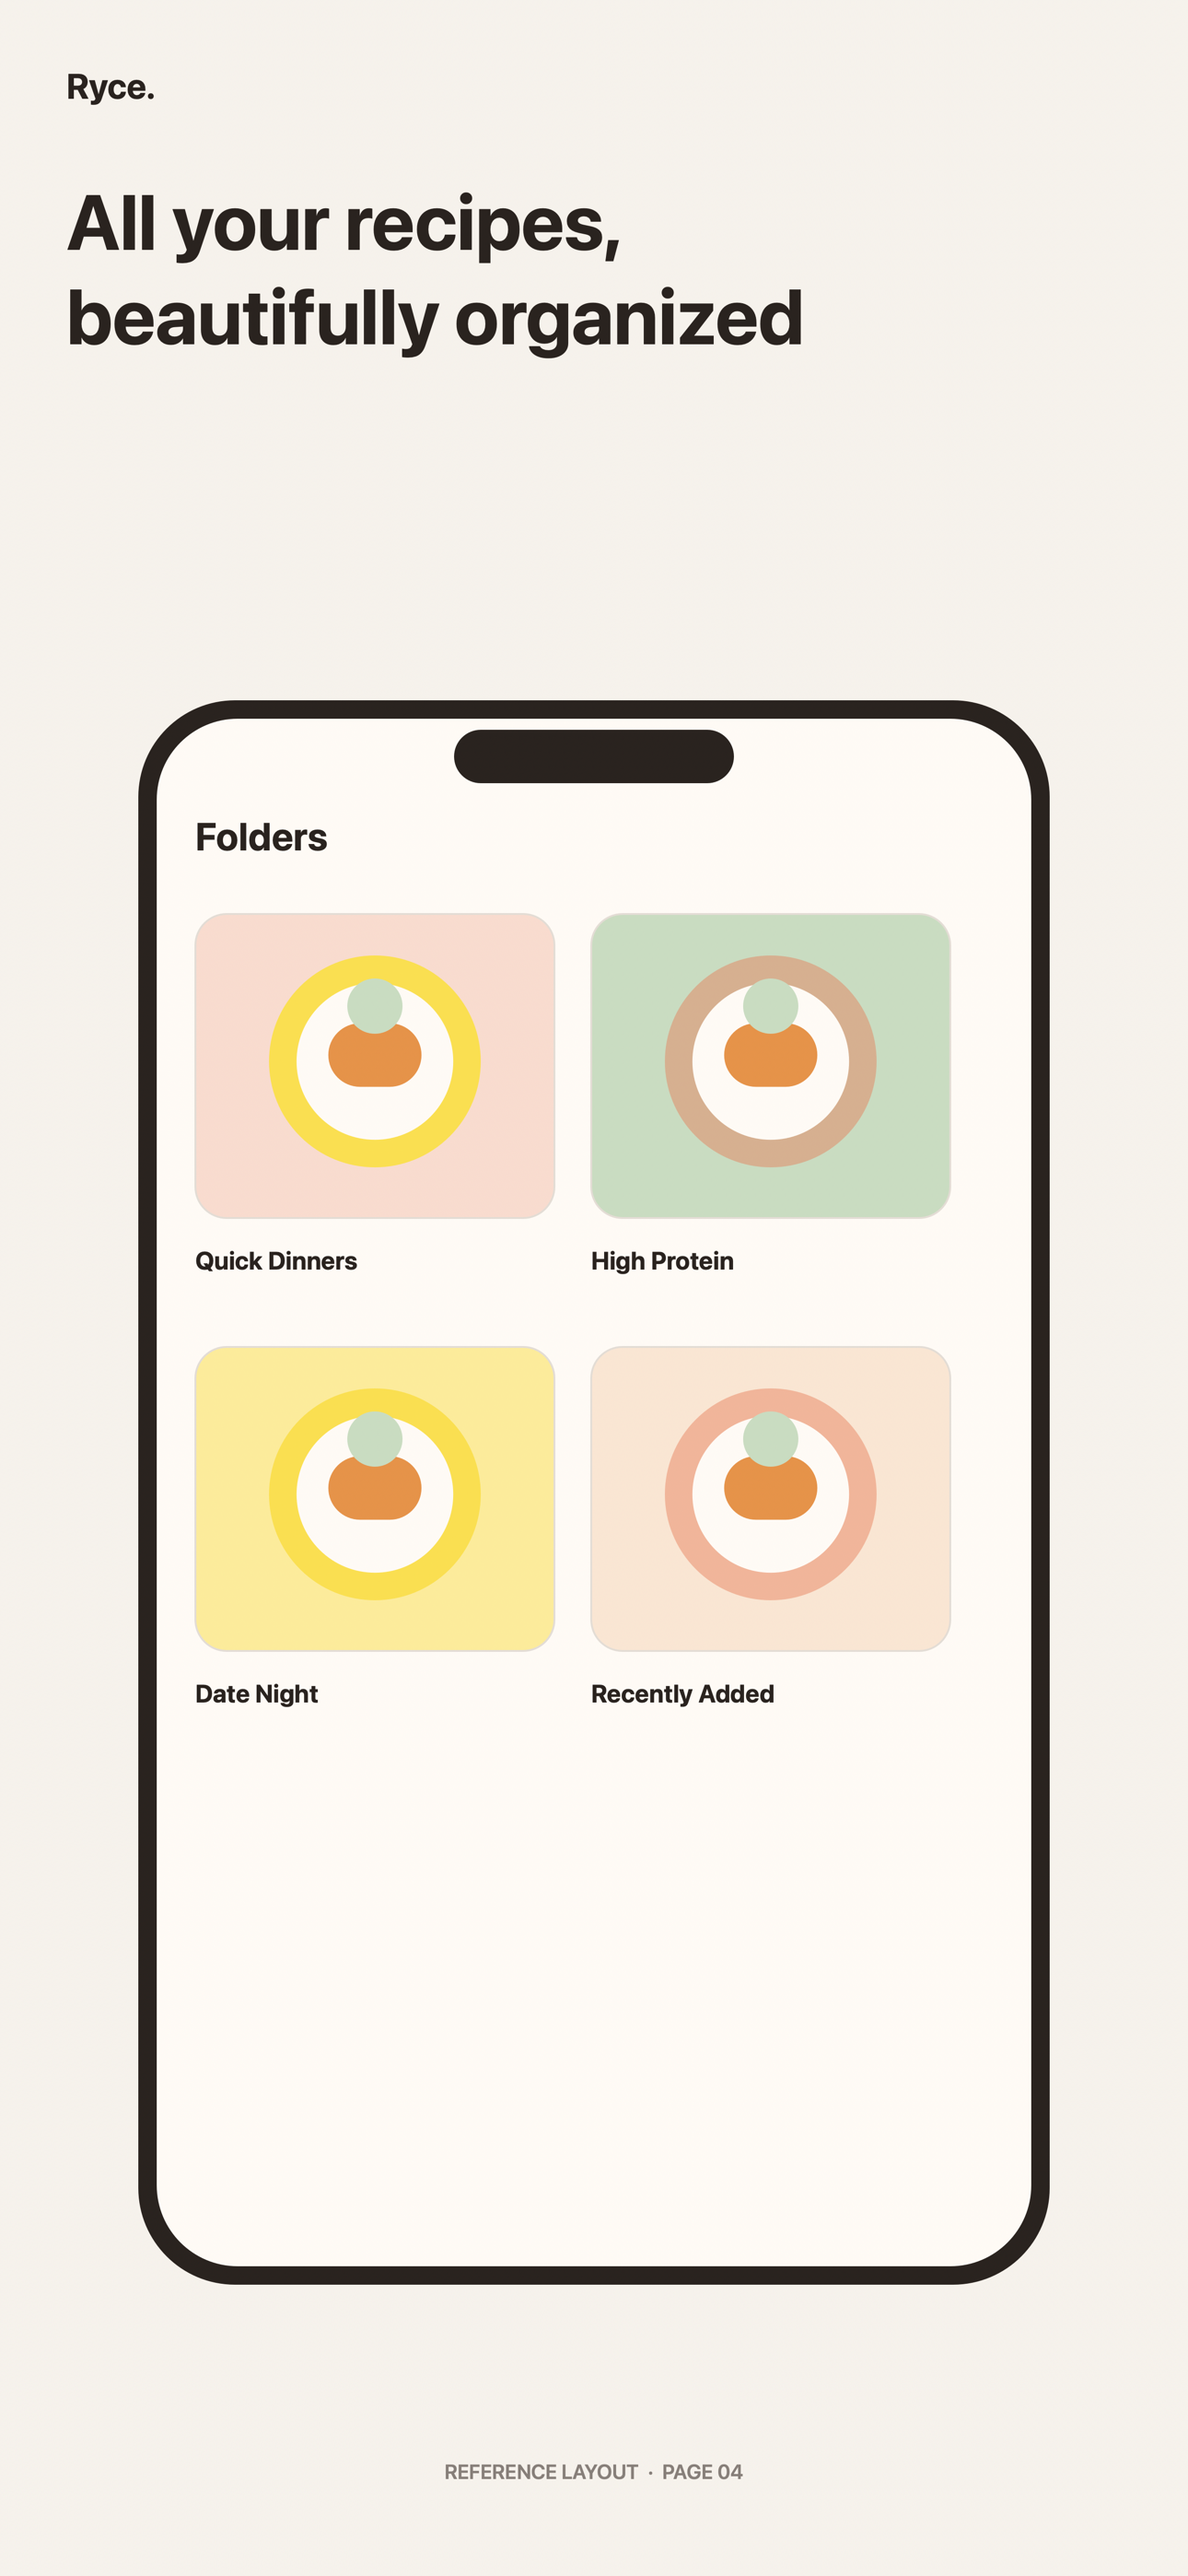
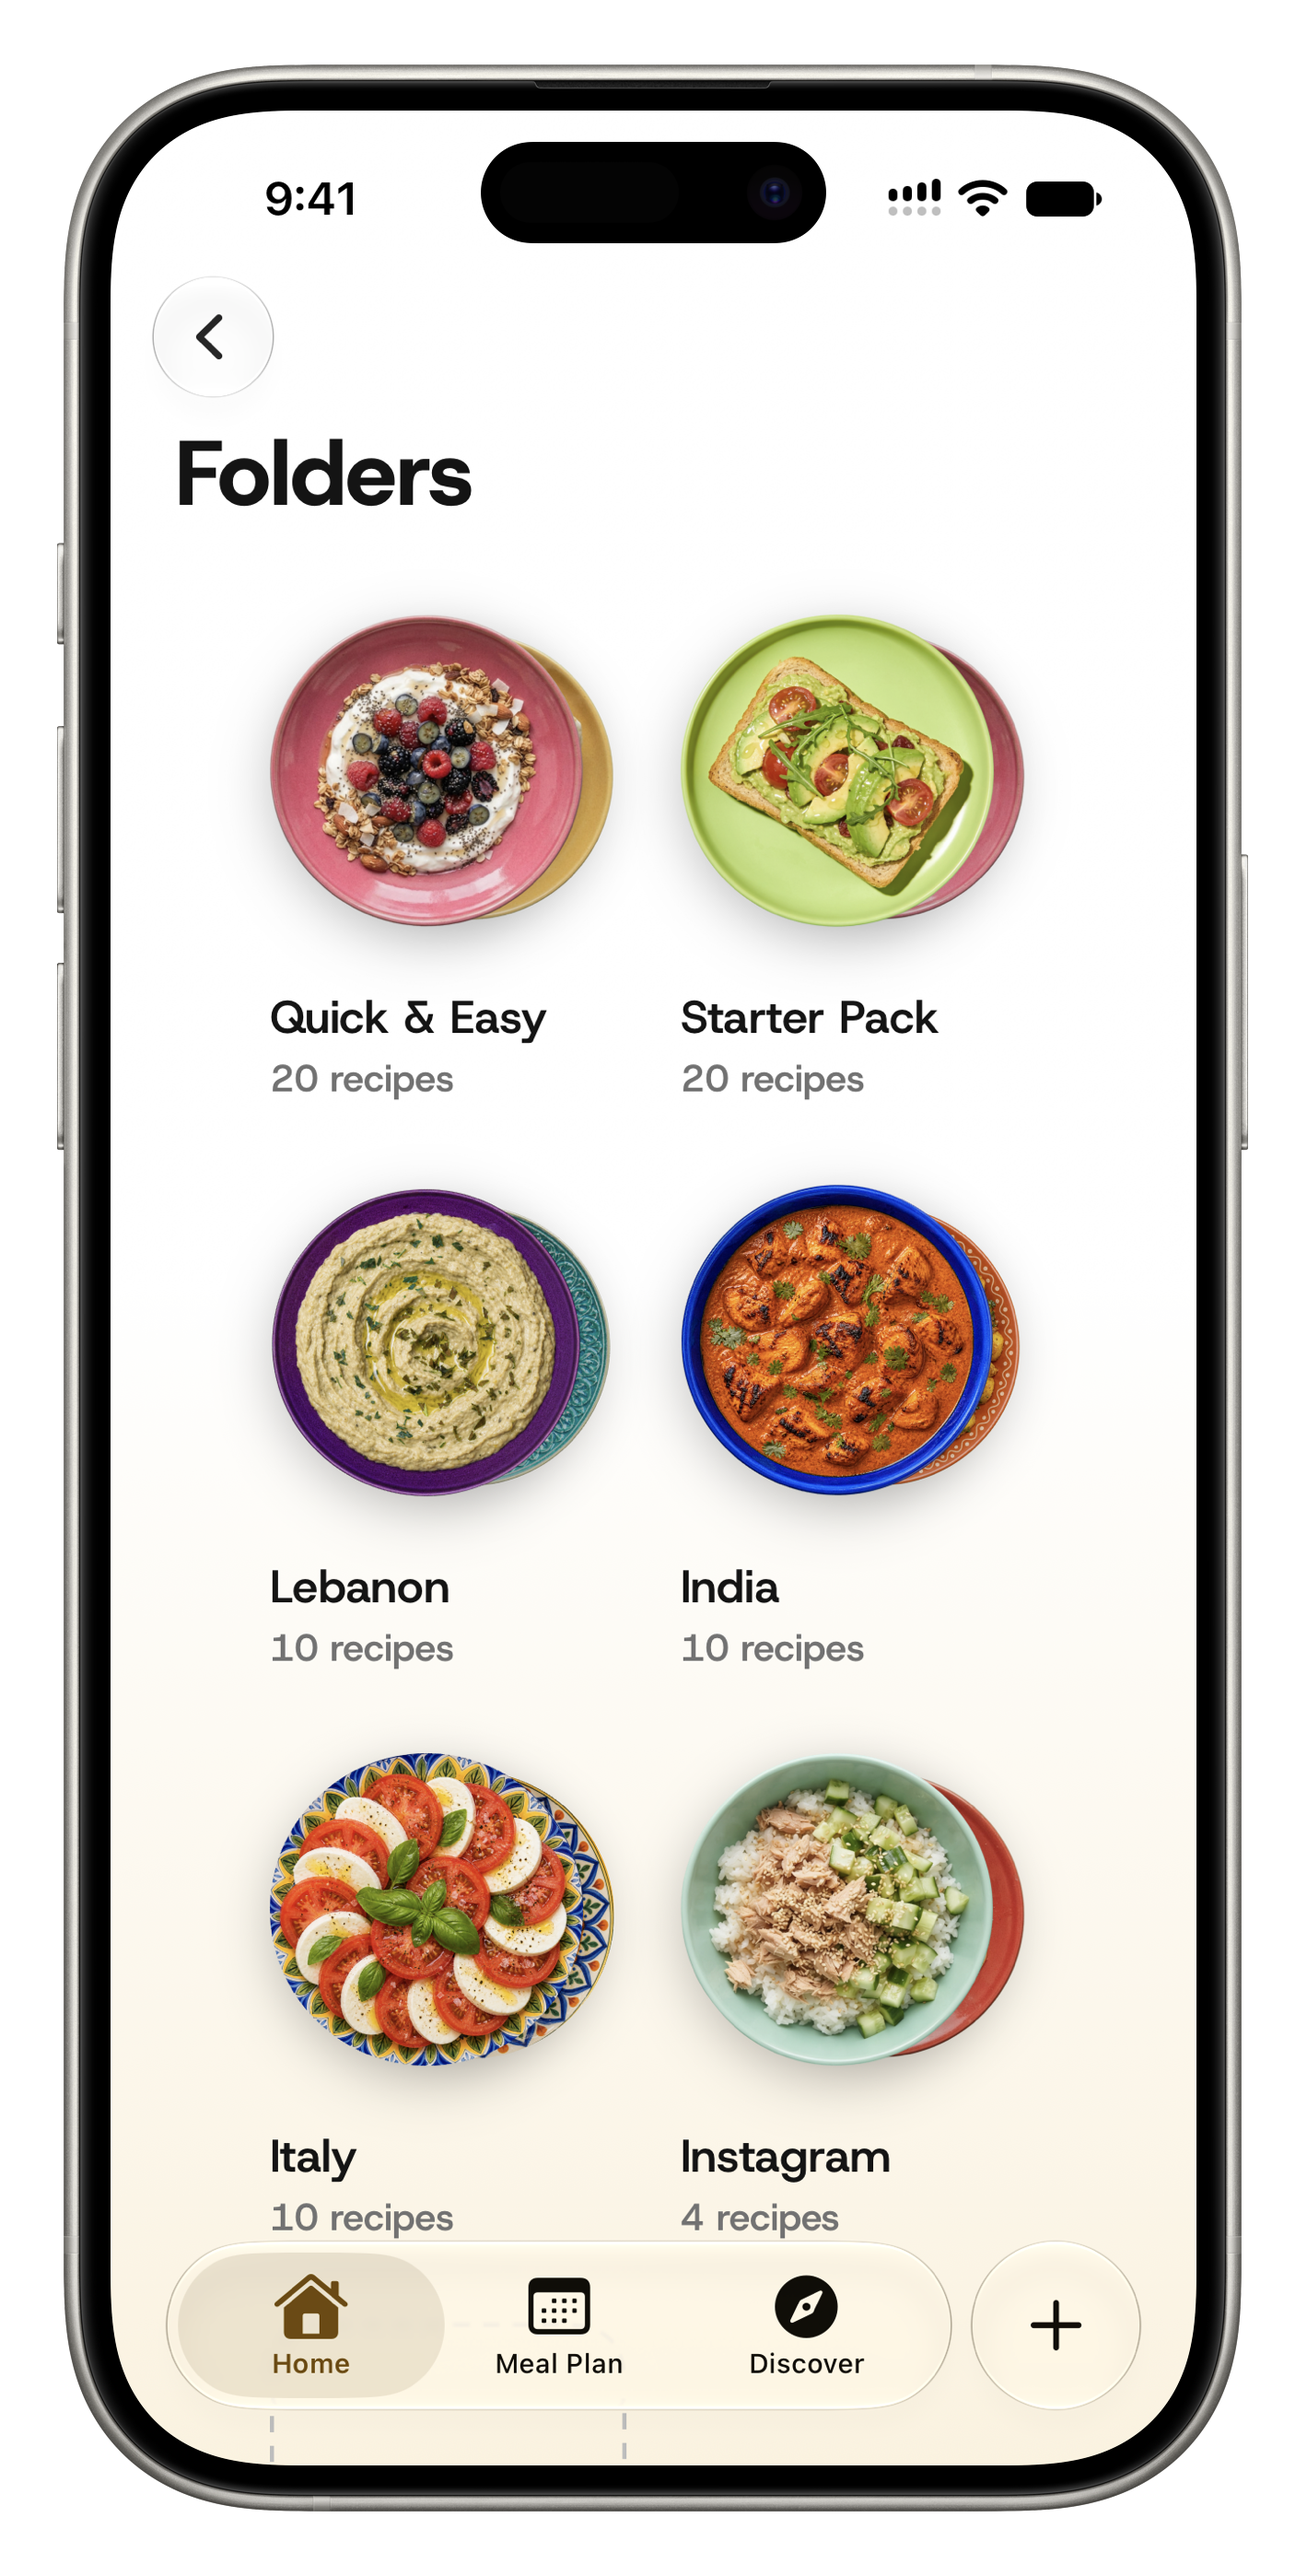
Replace Ryce story reference boards with app screenshots

diff --git a/ryce-story.css b/ryce-story.css
@@ -14,6 +14,6 @@ h1,h2,p { margin-top:0; } h1,h2,.display-copy,blockquote { font-family:"Playfair
 .chapter { display:grid; grid-template-columns:1fr 2fr; gap:8%; padding:125px 0; border-top:1px solid var(--line); }.chapter-number { padding-top:13px; }.prose { max-width:650px; }.prose p { margin-bottom:1.5rem; color:var(--muted); }.prose p:last-child { margin-bottom:0; }.display-copy { color:var(--ink)!important; font-size:clamp(2rem,3.4vw,3.35rem); }.prose em { color:var(--ink); }.chapter-origin { padding-top:155px; }.chapter-origin .prose { max-width:720px; }.chapter-origin .display-copy { margin-bottom:34px; }
 .chapter-feed { grid-template-columns:1fr minmax(0,1.4fr) minmax(210px,.6fr); }.chapter-feed .screen { align-self:end; margin-top:30px; }.screen { margin:0; overflow:hidden; border-radius:28px; background:#32150a; box-shadow:0 27px 45px rgba(37,33,29,.17); }.screen img { aspect-ratio:1290/2796; object-fit:cover; }
 blockquote { margin:40px 0 35px; padding:26px 0 26px 29px; border-left:3px solid var(--orange); color:var(--ink); font-size:clamp(1.65rem,2.7vw,2.55rem); } cite { display:block; margin-top:18px; color:var(--muted); font:.75rem/1.2 "DM Mono",monospace; letter-spacing:.04em; }
-.chapter-home { grid-template-columns:1fr 2fr; }.screen-pair { grid-column:2; display:flex; align-items:flex-end; gap:28px; margin-top:12px; }.screen-pair .screen { width:min(46%,285px); }.screen-pair .offset { transform:translateY(58px); }.caption { grid-column:2; margin:48px 0 0; color:var(--muted); font-size:.84rem; }.chapter-plan { grid-template-columns:1fr 1fr 1fr; align-items:center; }.chapter-plan .screen { grid-column:3; }.chapter-world { grid-template-columns:1fr minmax(0,1.25fr) minmax(240px,.75fr); background:linear-gradient(135deg,#d6ebdd 0%,#f7f2e9 68%); width:100%; padding-left:max(calc((100% - 1160px)/2),28px); padding-right:max(calc((100% - 1160px)/2),28px); }.chapter-world .screen { align-self:center; }.chapter-world .prose { max-width:600px; }
+.chapter-home { grid-template-columns:1fr 2fr; }.screen-trio { grid-column:2; display:flex; align-items:flex-end; gap:22px; margin-top:12px; }.screen-trio .screen { width:min(31%,215px); }.screen-trio .offset { transform:translateY(54px); }.caption { grid-column:2; margin:48px 0 0; color:var(--muted); font-size:.84rem; }.chapter-plan { grid-template-columns:1fr 1fr 1fr; align-items:center; }.chapter-plan .screen { grid-column:3; }.chapter-world { grid-template-columns:1fr minmax(0,1.25fr) minmax(240px,.75fr); background:linear-gradient(135deg,#d6ebdd 0%,#f7f2e9 68%); width:100%; padding-left:max(calc((100% - 1160px)/2),28px); padding-right:max(calc((100% - 1160px)/2),28px); }.chapter-world .screen { align-self:center; }.chapter-world .prose { max-width:600px; }.globe-strip { grid-column:1 / -1; display:grid; grid-template-columns:repeat(4,1fr); gap:18px; margin-top:58px; }.globe-strip .screen { margin:0; }.globe-strip .screen:nth-child(even) { transform:translateY(34px); }
 .closing { margin-top:110px; padding:125px 28px; border-radius:36px; background:var(--orange); color:white; text-align:center; }.closing .eyebrow { color:var(--yellow); }.closing h2 { max-width:820px; margin:0 auto 34px; font-size:clamp(3rem,6vw,6.2rem); font-weight:600; }.button { display:inline-block; padding:15px 25px; border-radius:999px; background:var(--yellow); color:var(--ink); font-weight:700; text-decoration:none; transition:transform .2s; }.button:hover { transform:translateY(-3px); }.site-footer { display:flex; justify-content:space-between; padding:34px 0 48px; color:var(--muted); font-size:.84rem; }.site-footer p { margin:0; }.site-footer nav { display:flex; gap:18px; }.site-footer a { color:inherit; text-decoration:none; }
-@media (max-width:760px) { body { font-size:16px; }.site-header,.hero,.chapter,.closing,.site-footer { width:min(100% - 32px,1160px); }.hero { min-height:760px; padding:78px 0 70px; }.hero-copy { margin-left:0; }.portrait-pair { right:0; bottom:75px; transform:scale(.82); transform-origin:bottom right; }.chapter,.chapter-feed,.chapter-home,.chapter-plan,.chapter-world { display:block; width:100%; padding:80px max(16px,calc((100% - 610px)/2)); }.chapter-number { padding:0; }.prose { max-width:610px; }.chapter .screen { width:min(240px,48vw); margin:38px auto 0; }.chapter-feed .screen { margin:38px 0 0 auto; }.screen-pair { display:flex; margin-top:28px; gap:12px; }.screen-pair .screen { width:46%; margin:0; }.screen-pair .offset { transform:translateY(28px); }.caption { margin:43px 0 0; }.chapter-plan .screen { width:min(270px,58vw); }.chapter-world { background:linear-gradient(160deg,#d6ebdd,#f7f2e9 66%); }.chapter-world .screen { width:min(260px,55vw); }.closing { margin-top:65px; padding:85px 20px; }.site-footer { align-items:flex-start; flex-direction:column; gap:13px; } }
+@media (max-width:760px) { body { font-size:16px; }.site-header,.hero,.chapter,.closing,.site-footer { width:min(100% - 32px,1160px); }.hero { min-height:760px; padding:78px 0 70px; }.hero-copy { margin-left:0; }.portrait-pair { right:0; bottom:75px; transform:scale(.82); transform-origin:bottom right; }.chapter,.chapter-feed,.chapter-home,.chapter-plan,.chapter-world { display:block; width:100%; padding:80px max(16px,calc((100% - 610px)/2)); }.chapter-number { padding:0; }.prose { max-width:610px; }.chapter .screen { width:min(240px,48vw); margin:38px auto 0; }.chapter-feed .screen { margin:38px 0 0 auto; }.screen-trio { display:flex; margin-top:28px; gap:12px; }.screen-trio .screen { width:31%; margin:0; }.screen-trio .offset { transform:translateY(28px); }.caption { margin:43px 0 0; }.chapter-plan .screen { width:min(270px,58vw); }.chapter-world { background:linear-gradient(160deg,#d6ebdd,#f7f2e9 66%); }.chapter-world .screen { width:min(260px,55vw); }.globe-strip { display:grid; grid-template-columns:repeat(2,1fr); gap:12px; margin-top:48px; }.globe-strip .screen { width:100%; }.globe-strip .screen:nth-child(even) { transform:translateY(18px); }.closing { margin-top:65px; padding:85px 20px; }.site-footer { align-items:flex-start; flex-direction:column; gap:13px; } }

diff --git a/ryce-story/index.html b/ryce-story/index.html
@@ -41,7 +41,7 @@
         <blockquote>“What if you made an app that could directly import all these recipes from Instagram and store them in a structured way?”<cite>— Nilfa</cite></blockquote>
         <p>That was the beginning of Ryce.</p>
       </div>
-      <figure class="screen screen-home"><img src="../assets/ryce-story/screens/home.png" alt="Ryce home screen showing the next meal"></figure>
+      <figure class="screen screen-home"><img src="../assets/ryce-story/screens/instagram-import.png" alt="Sharing an Instagram Reel directly to Ryce"></figure>
     </section>
 
     <section class="chapter chapter-home">
@@ -50,9 +50,10 @@
         <p class="display-copy">I wanted Ryce to feel unlike a recipe manager: simple, useful, and beautiful to open.</p>
         <p>When you open Ryce, you see only what matters: your next meal. If it is not what you feel like cooking, a single shuffle creates a beautiful transition and suggests something else. The homepage keeps your next three meals in view—only the information you need, and nothing more.</p>
       </div>
-      <div class="screen-pair">
-        <figure class="screen"><img src="../assets/ryce-story/screens/home.png" alt="Ryce home screen"></figure>
-        <figure class="screen offset"><img src="../assets/ryce-story/screens/folders.png" alt="Ryce recipe folders"></figure>
+      <div class="screen-trio">
+        <figure class="screen"><img src="../assets/ryce-story/screens/home.png" alt="Ryce Home showing the next meal and Up Next meals"></figure>
+        <figure class="screen offset"><img src="../assets/ryce-story/screens/recipe-detail.png" alt="Ryce recipe detail screen"></figure>
+        <figure class="screen"><img src="../assets/ryce-story/screens/folders.png" alt="Ryce recipe folders"></figure>
       </div>
       <p class="caption">A next-meal view, thoughtful folders, and a calm path back to the recipes worth keeping.</p>
     </section>
@@ -74,7 +75,13 @@
         <p>And because I am a geography nerd, the Discover page also has a 3D globe. You can spin it, tap a region, and find recipes from that part of the world to save for later. The idea came while I was playing a geography game: <em>what if you could discover food from anywhere in the world?</em></p>
         <p>It is my favourite part of Ryce. It is playful and engaging, but it also reveals patterns: spice across the Indian subcontinent, rice and fish through Southeast Asia, and the endlessly surprising ways a place shapes what ends up on a plate.</p>
       </div>
-      <figure class="screen screen-globe"><img src="../assets/ryce-story/screens/globe-packs.png" alt="Ryce Discover page with recipe packs and a globe"></figure>
+      <figure class="screen screen-globe"><img src="../assets/ryce-story/screens/discover-pack.png" alt="Ryce Discover page with an Italian recipe pack"></figure>
+      <div class="globe-strip" aria-label="Recipes from around the world in Ryce">
+        <figure class="screen"><img src="../assets/ryce-story/screens/globe-intro.png" alt="Ryce's interactive recipe globe"></figure>
+        <figure class="screen"><img src="../assets/ryce-story/screens/globe-bibimbap.png" alt="Recipe cards on Ryce's interactive globe"></figure>
+        <figure class="screen"><img src="../assets/ryce-story/screens/globe-carousel.png" alt="Discovering recipes around Ryce's globe"></figure>
+        <figure class="screen"><img src="../assets/ryce-story/screens/globe-moussaka.png" alt="Interactive food discovery globe in Ryce"></figure>
+      </div>
     </section>
 
     <section class="closing">
